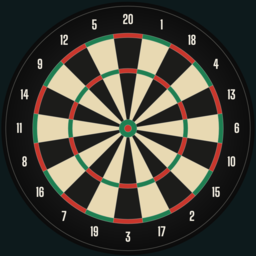
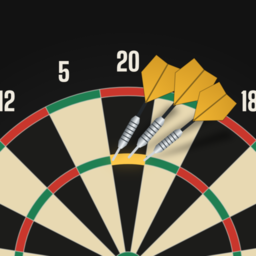
Treble Rush: Werbe-Absatz der Datenschutzerklärung präzisiert, App-Symbol

diff --git a/treblerush/datenschutz.html b/treblerush/datenschutz.html
@@ -39,9 +39,10 @@
 
 
   <h2>3. Werbung mit Google AdMob</h2>
-  <p>Damit die App kostenlos bleibt, zeigt sie Werbung: kurze Werbepausen zwischen den Spielen, nie während
-    eines Wurfs. Außerdem kannst du an einzelnen Stellen freiwillig ein Video ansehen, um eine kleine
-    Belohnung im Spiel zu bekommen. Anbieter ist
+  <p>Damit die App kostenlos bleibt, zeigt sie Werbung: eine kurze Werbepause höchstens nach jedem zweiten
+    beendeten Spiel, nie während eines Matches. Außerdem kannst du freiwillig ein Video ansehen, um nach einer
+    verlorenen Karriere-Runde eine „Revanche mit Heimvorteil“ zu starten oder bei der Tagesaufgabe einmal am Tag
+    eine zusätzliche Aufnahme zu bekommen. Anbieter ist
     Google Ireland Limited, Gordon House, Barrow Street, Dublin 4, Irland („Google“).</p>
   <ul>
     <li><strong>Verarbeitete Daten:</strong> die Werbe-ID deines Geräts (sofern du sie nicht

diff --git a/treblerush/privacy.html b/treblerush/privacy.html
@@ -41,8 +41,9 @@
 
 
   <h2>3. Advertising with Google AdMob</h2>
-  <p>To keep the app free, it shows ads: short ad breaks between games, never during a throw. At a few
-    points you can also choose to watch a video to get a small in-game reward. The provider is Google Ireland Limited,
+  <p>To keep the app free, it shows ads: a short ad break at most after every second finished game, never
+    during a match. You can also choose to watch a video to start a “rematch with home advantage” after losing a
+    career round, or to get one extra visit in the daily challenge once a day. The provider is Google Ireland Limited,
     Gordon House, Barrow Street, Dublin 4, Ireland (“Google”).</p>
   <ul>
     <li><strong>Data processed:</strong> your device's advertising ID (unless you have disabled it),
